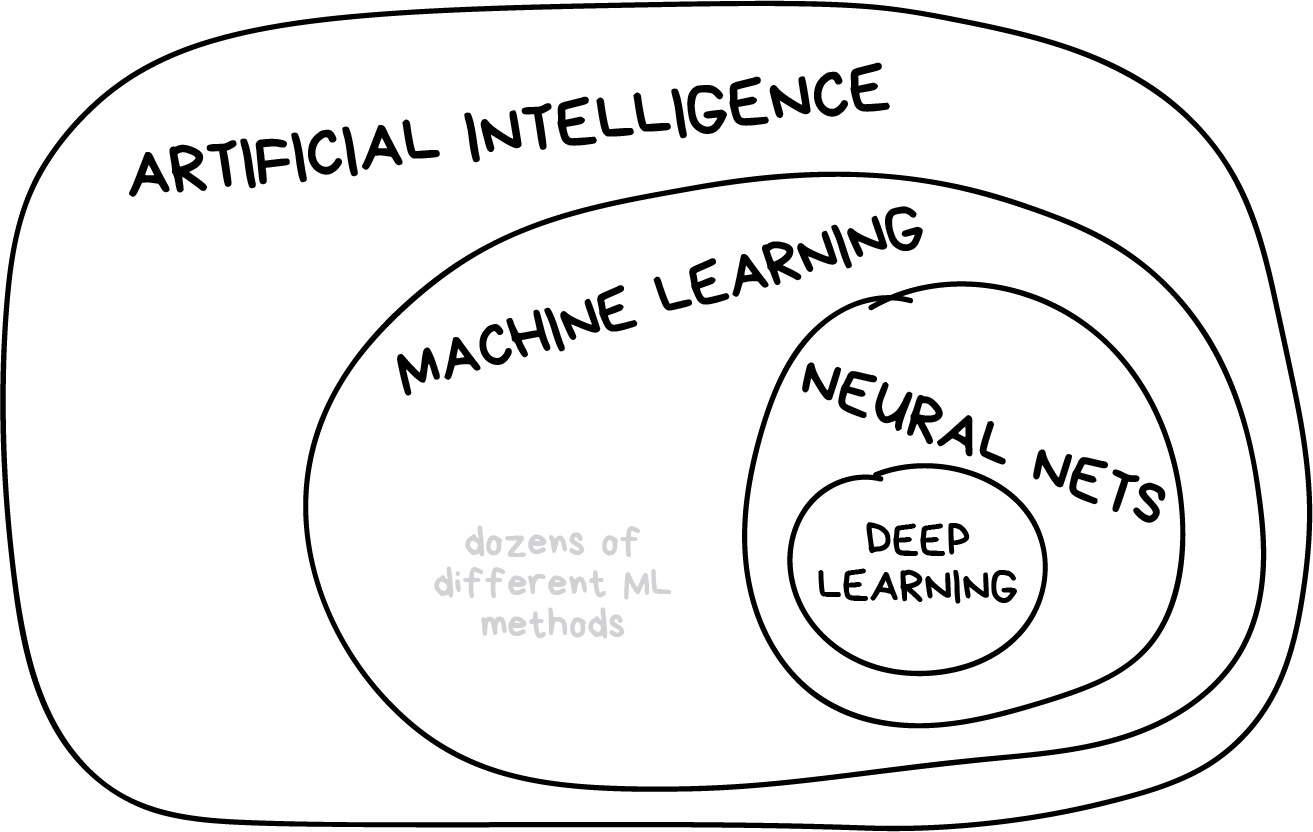
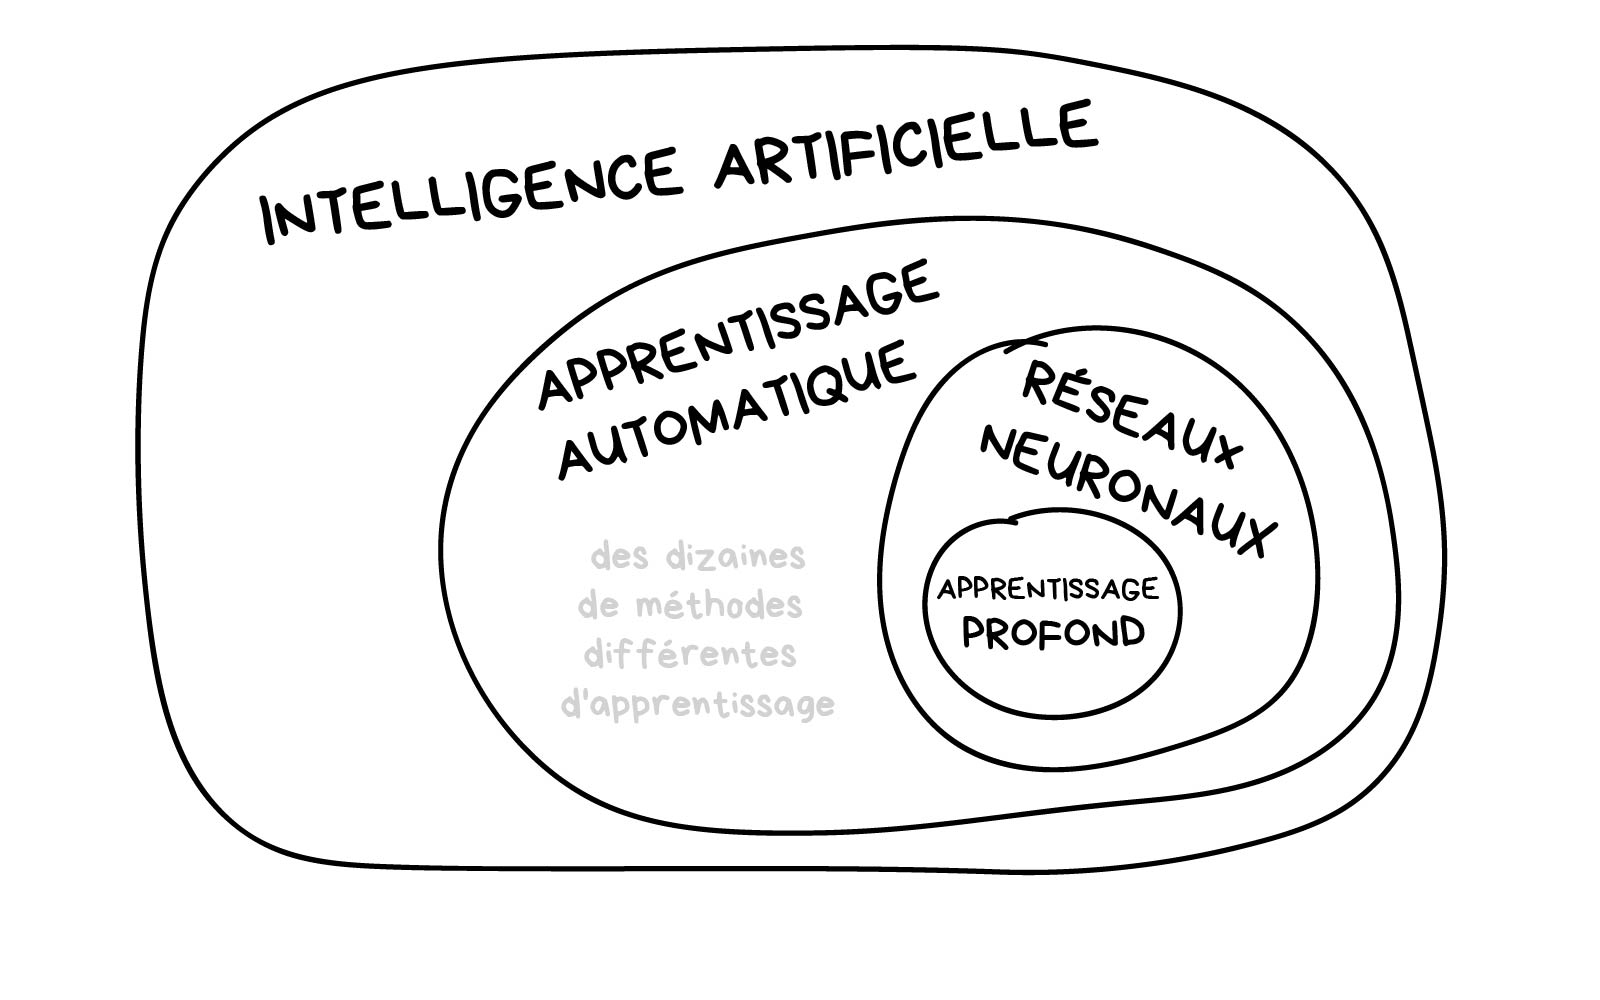
Update article

diff --git a/source/_posts/machine-learning-for-everyone.md b/source/_posts/machine-learning-for-everyone.md
@@ -61,3 +61,32 @@ Quand les données sont stockées dans des tableaux c'est simple, les caractéri
 La partie la plus évidente. Tout problème peut être résolu différemment. La méthode choisie influence la précision, les performances et la taille du modèle final. Il faut néanmoins souligner que si les données sont mauvaises, même le meilleur algorithme ne sera d'aucune utilité. C'est ce qu'on appelle parfois "garbage in, garbage out" - si vous entrez de mauvaises données, vous obtiendrez de mauvais résultats. Ne prêtez donc pas trop d'attention au pourcentage de précision, essayez d'abord d'acquérir davantage de données.
 
 <img src="/images/machine-learning-for-everyone/03.jpg">
+
+## Apprentissage VS Intelligence
+
+Un jour, j'ai vu un article intitulé "les réseaux de neurones remplaceront-ils l'apprentissage automatique ?" sur un site de média. Ces types de médias comparent toujours n'importe quelle régression linéaire à de l'intelligence artificielle, même à SkyNet. Voici une image simple pour montrer qui est qui.
+
+<img src="/images/machine-learning-for-everyone/04.jpg">
+
+**L'intelligence artificielle** (Artifial Intelligence) est le nom d'un domaine de connaissance entier, similaire à la biologie ou à la chimie.
+
+**L'apprentissage automatique** (Machine Learning) est une partie de l'intelligence artificielle. Une partie assez importante, mais pas la seule.
+
+**Les réseaux de neurones** (Neural Networks) sont un type d'apprentissage automatique. Un type très populaire, mais il y a d'autres bon éléments.
+
+**L'apprentissage profond** (Deep learning) est une méthode moderne pour construire, entrainer et utiliser les réseaux de neurones. En fait, il s'agit d'une nouvelle architecture. De nos jours, en pratique, personne ne distingue l'apprentissage profond des "réseaux ordinaires". Nous utilisons les mêmes bibliothèques pour les manipuler. Pour ne pas passer pour un imbécile, il est préférable de nommer le type de réseau et d'éviter les mots à la mode.
+
+La règle générale est de comparer les choses au même niveau. C'est pourquoi la phrase "les réseaux de neurones remplaceront-ils l'apprentissage automatique ?" ressemble à "les roues vont-elles remplacer les voitures". Chers médias, cela remet beaucoup en doute notre réputation.
+
+| La machine peut             | Les machine ne peut pas         |
+|-----------------------------|---------------------------------|
+| Prédire                     | Créer quelque chose de nouveau  |
+| Mémoriser                   | Devenir intelligente rapidement |
+| Reproduire                  | Aller au-delà de leur tâche     |
+| Choisir le meilleur élément | Tuer tous les humains           |
+
+## La carte du monde de l'apprentissage automatique
+
+Si vous êtes trop paresseux pour les longues lectures, jetez un coup d'œil à l'image ci-dessous pour vous faire une idée.
+
+<img src="https://i.vas3k.ru/7vx.jpg">
